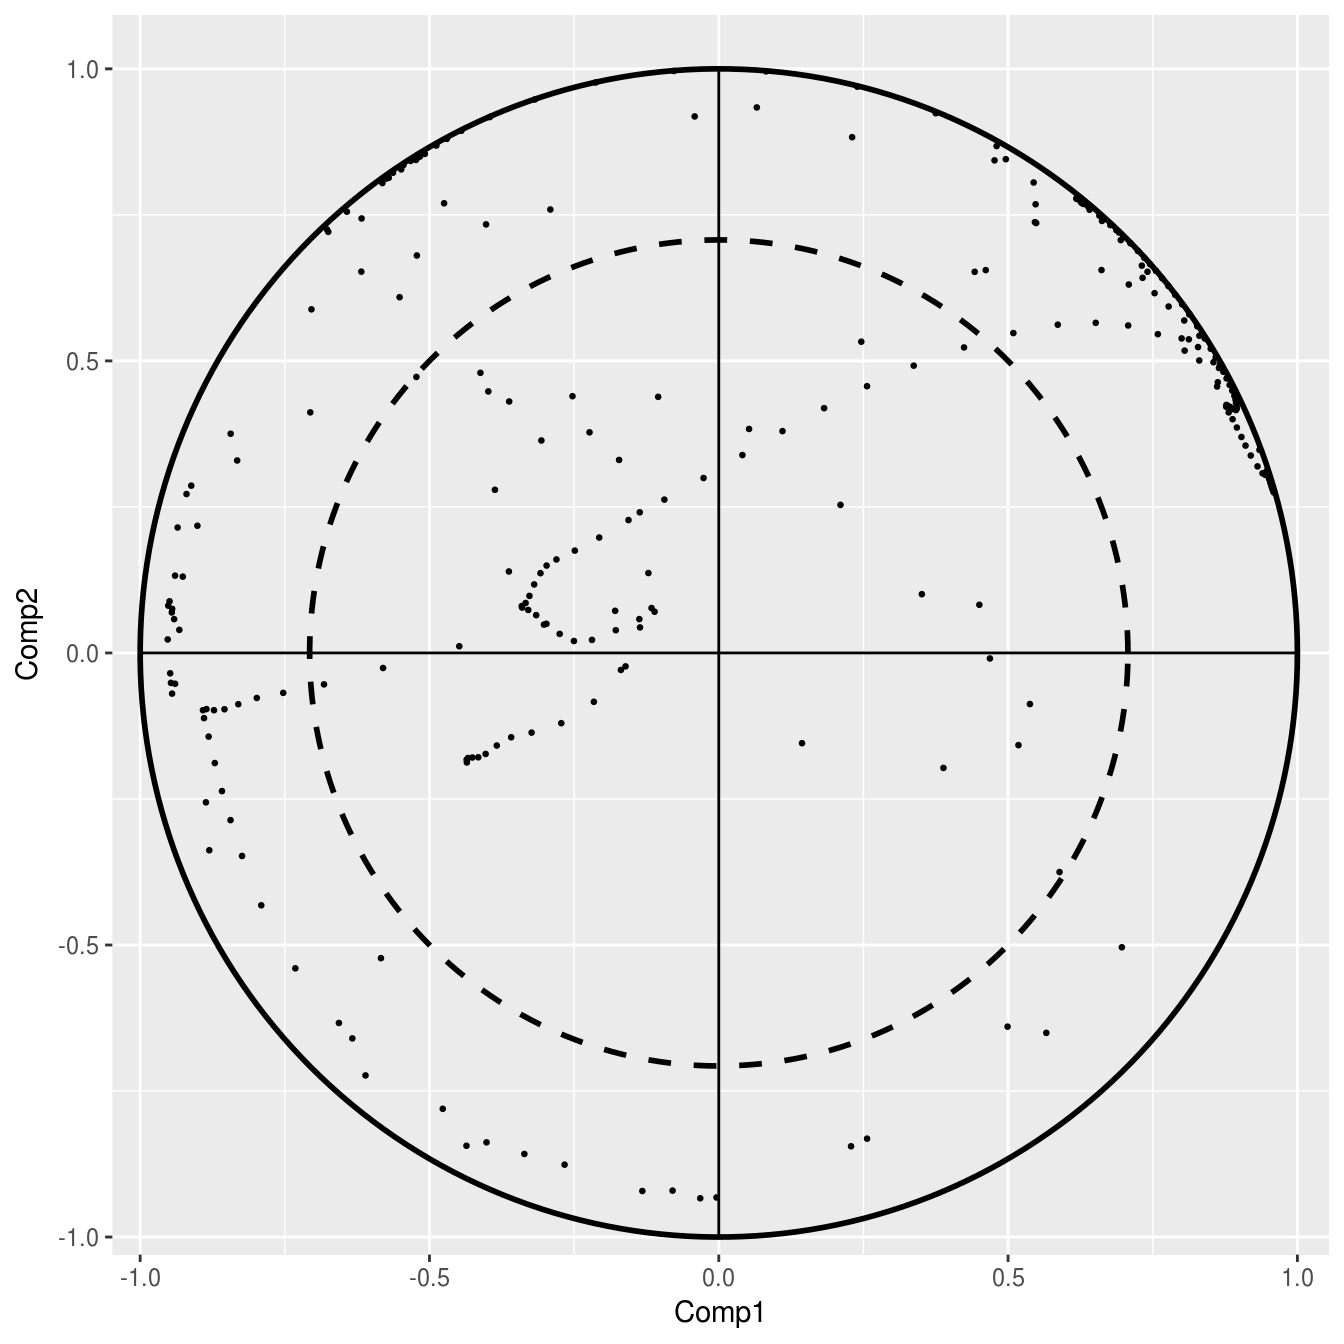
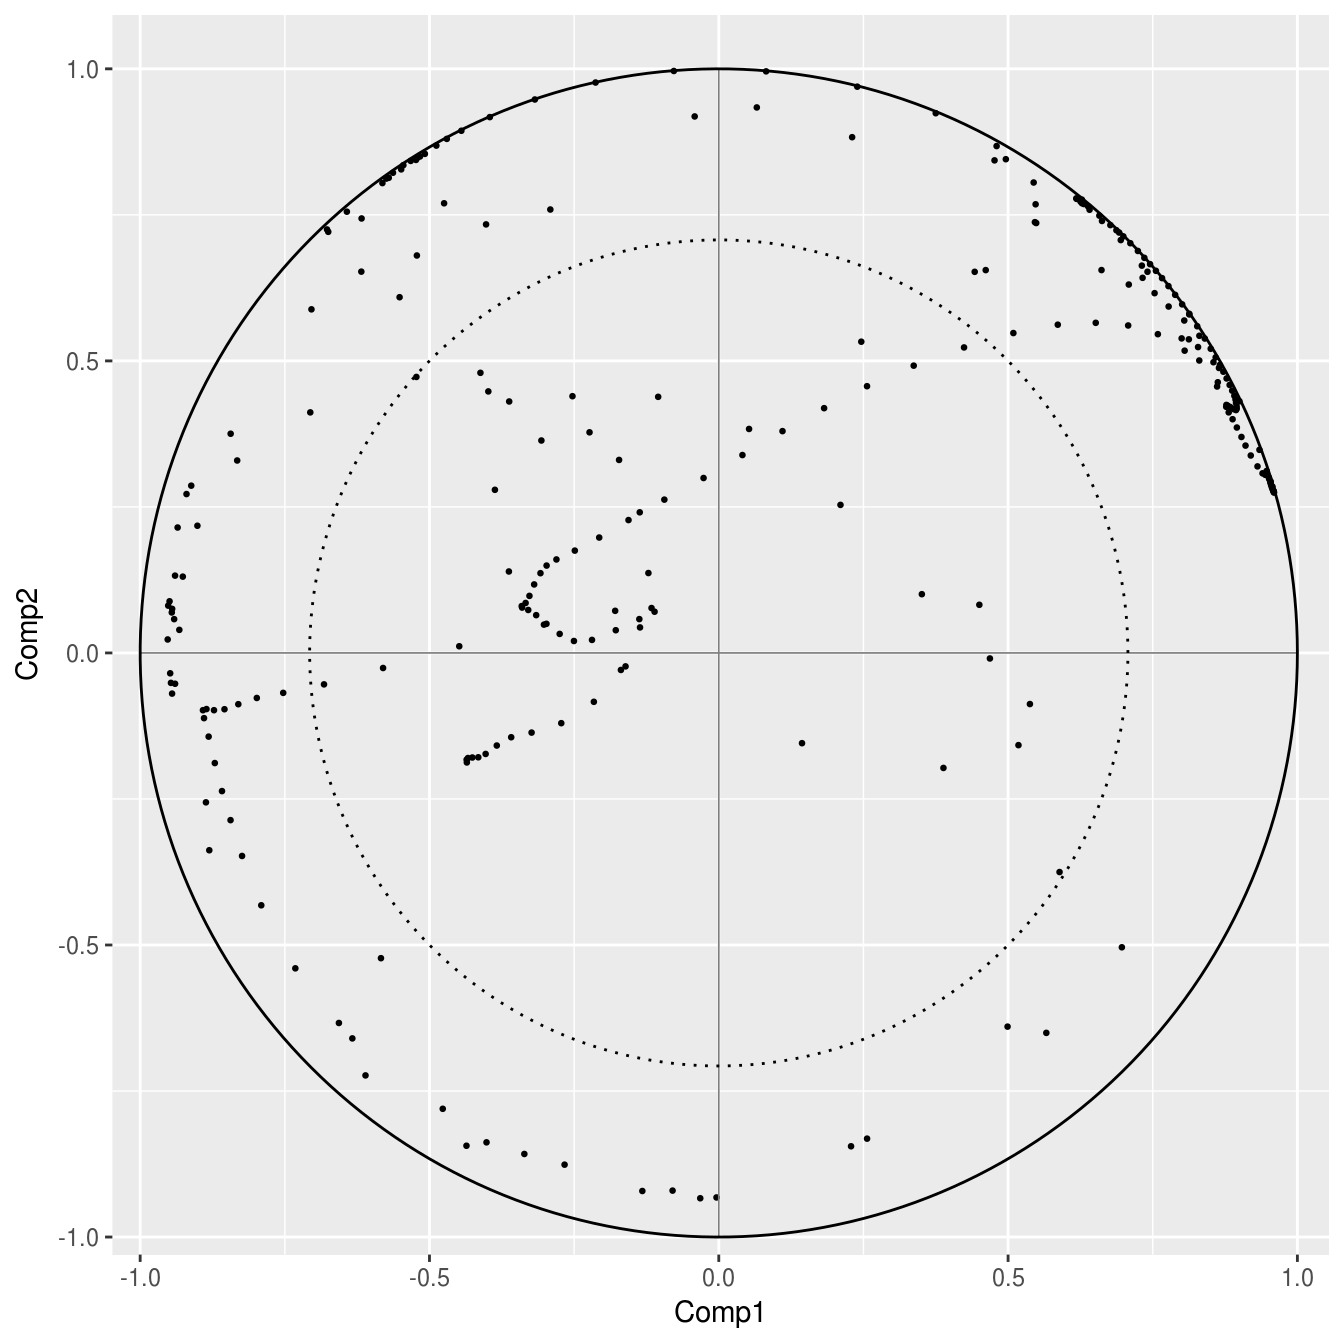
updated roxygen and pkgdown site

diff --git a/docs/reference/geom_corr_circle.html b/docs/reference/geom_corr_circle.html
@@ -113,10 +113,10 @@ analysis and partial least squares.</p>
     <pre class="usage"><span class='fu'>geom_corr_circle</span>(<span class='kw'>mapping</span> <span class='kw'>=</span> <span class='kw'>NULL</span>, <span class='kw'>data</span> <span class='kw'>=</span> <span class='kw'>NULL</span>, <span class='kw'>stat</span> <span class='kw'>=</span> <span class='st'>"identity"</span>,
   <span class='kw'>position</span> <span class='kw'>=</span> <span class='st'>"identity"</span>, <span class='no'>...</span>, <span class='kw'>na.rm</span> <span class='kw'>=</span> <span class='fl'>FALSE</span>, <span class='kw'>show.legend</span> <span class='kw'>=</span> <span class='fl'>NA</span>,
   <span class='kw'>outer.linetype</span> <span class='kw'>=</span> <span class='st'>"solid"</span>, <span class='kw'>outer.linecolour</span> <span class='kw'>=</span> <span class='st'>"black"</span>,
-  <span class='kw'>outer.linesize</span> <span class='kw'>=</span> <span class='fl'>1</span>, <span class='kw'>inner.linetype</span> <span class='kw'>=</span> <span class='st'>"dashed"</span>,
-  <span class='kw'>inner.linecolour</span> <span class='kw'>=</span> <span class='st'>"black"</span>, <span class='kw'>inner.linesize</span> <span class='kw'>=</span> <span class='fl'>1</span>,
-  <span class='kw'>center.linetype</span> <span class='kw'>=</span> <span class='st'>"solid"</span>, <span class='kw'>center.linecolour</span> <span class='kw'>=</span> <span class='st'>"black"</span>,
-  <span class='kw'>center.linesize</span> <span class='kw'>=</span> <span class='fl'>0.5</span>, <span class='kw'>inherit.aes</span> <span class='kw'>=</span> <span class='fl'>TRUE</span>)</pre>
+  <span class='kw'>outer.linesize</span> <span class='kw'>=</span> <span class='fl'>0.5</span>, <span class='kw'>inner.linetype</span> <span class='kw'>=</span> <span class='st'>"dotted"</span>,
+  <span class='kw'>inner.linecolour</span> <span class='kw'>=</span> <span class='st'>"black"</span>, <span class='kw'>inner.linesize</span> <span class='kw'>=</span> <span class='fl'>0.5</span>,
+  <span class='kw'>center.linetype</span> <span class='kw'>=</span> <span class='st'>"solid"</span>, <span class='kw'>center.linecolour</span> <span class='kw'>=</span> <span class='st'>"grey50"</span>,
+  <span class='kw'>center.linesize</span> <span class='kw'>=</span> <span class='fl'>0.3</span>, <span class='kw'>inherit.aes</span> <span class='kw'>=</span> <span class='fl'>TRUE</span>)</pre>
     
     <h2 class="hasAnchor" id="arguments"><a class="anchor" href="#arguments"></a>Arguments</h2>
     <table class="ref-arguments">
@@ -216,11 +216,18 @@ the default plot specification, e.g. <code>borders()</code>.</p></td>
 <span class='no'>fit</span>$<span class='no'>Variables</span> <span class='kw'>&lt;-</span> <span class='fu'>rownames</span>(<span class='no'>fit</span>)
 <span class='fu'>rownames</span>(<span class='no'>fit</span>) <span class='kw'>&lt;-</span> <span class='kw'>NULL</span>
 <span class='fu'>colnames</span>(<span class='no'>fit</span>)[<span class='fl'>1</span>:<span class='fl'>2</span>] <span class='kw'>&lt;-</span> <span class='fu'>c</span>(<span class='st'>"Comp1"</span>, <span class='st'>"Comp2"</span>)
+<span class='no'>fit</span>$<span class='no'>Groups</span> <span class='kw'>&lt;-</span> <span class='fu'>as.factor</span>(<span class='fu'>sample.int</span>(<span class='fl'>2</span>, <span class='fu'>nrow</span>(<span class='no'>fit</span>), <span class='kw'>replace</span> <span class='kw'>=</span> <span class='fl'>TRUE</span>))
 
 <span class='no'>p</span> <span class='kw'>&lt;-</span> <span class='fu'><a href='http://www.rdocumentation.org/packages/ggplot2/topics/ggplot'>ggplot</a></span>(<span class='no'>fit</span>, <span class='fu'><a href='http://www.rdocumentation.org/packages/ggplot2/topics/aes'>aes</a></span>(<span class='kw'>x</span> <span class='kw'>=</span> <span class='no'>Comp1</span>, <span class='kw'>y</span> <span class='kw'>=</span> <span class='no'>Comp2</span>))
 <span class='no'>p</span> + <span class='fu'>geom_corr_circle</span>()</div><div class='img'><img src='geom_corr_circle-1.png' alt='' width='700' height='433' /></div><div class='input'><span class='no'>p</span> + <span class='fu'>geom_corr_circle</span>(<span class='kw'>outer.linetype</span> <span class='kw'>=</span> <span class='st'>"dotted"</span>)</div><div class='img'><img src='geom_corr_circle-2.png' alt='' width='700' height='433' /></div><div class='input'><span class='no'>p</span> + <span class='fu'>geom_corr_circle</span>(<span class='kw'>inner.linecolour</span> <span class='kw'>=</span> <span class='st'>"blue"</span>)</div><div class='img'><img src='geom_corr_circle-3.png' alt='' width='700' height='433' /></div><div class='input'><span class='no'>p</span> + <span class='fu'>geom_corr_circle</span>(<span class='kw'>center.linesize</span> <span class='kw'>=</span> <span class='fl'>1</span>)</div><div class='img'><img src='geom_corr_circle-4.png' alt='' width='700' height='433' /></div><div class='input'><span class='no'>p</span> + <span class='fu'>geom_corr_circle</span>(<span class='kw'>center.linecolour</span> <span class='kw'>=</span> <span class='st'>"grey50"</span>, <span class='kw'>size</span> <span class='kw'>=</span> <span class='fl'>3</span>)</div><div class='img'><img src='geom_corr_circle-5.png' alt='' width='700' height='433' /></div><div class='input'>
 <span class='co'># If you want to remove the circle or center lines, use 0.</span>
 <span class='no'>p</span> + <span class='fu'>geom_corr_circle</span>(<span class='kw'>center.linetype</span> <span class='kw'>=</span> <span class='fl'>0</span>)</div><div class='img'><img src='geom_corr_circle-6.png' alt='' width='700' height='433' /></div><div class='input'><span class='no'>p</span> + <span class='fu'>geom_corr_circle</span>(<span class='kw'>outer.linetype</span> <span class='kw'>=</span> <span class='fl'>0</span>)</div><div class='img'><img src='geom_corr_circle-7.png' alt='' width='700' height='433' /></div><div class='input'>
+<span class='co'># With grouping</span>
+<span class='no'>p</span> + <span class='fu'>geom_corr_circle</span>(<span class='fu'><a href='http://www.rdocumentation.org/packages/ggplot2/topics/aes'>aes</a></span>(<span class='kw'>colour</span> <span class='kw'>=</span> <span class='no'>Groups</span>))</div><div class='img'><img src='geom_corr_circle-8.png' alt='' width='700' height='433' /></div><div class='input'><span class='no'>p</span> + <span class='fu'>geom_corr_circle</span>(<span class='fu'><a href='http://www.rdocumentation.org/packages/ggplot2/topics/aes'>aes</a></span>(<span class='kw'>colour</span> <span class='kw'>=</span> <span class='no'>Groups</span>), <span class='kw'>size</span> <span class='kw'>=</span> <span class='fl'>3</span>) +
+<span class='fu'><a href='http://www.rdocumentation.org/packages/ggplot2/topics/scale_brewer'>scale_colour_brewer</a></span>()</div><div class='img'><img src='geom_corr_circle-9.png' alt='' width='700' height='433' /></div><div class='input'><span class='no'>p</span> + <span class='fu'>geom_corr_circle</span>(<span class='fu'><a href='http://www.rdocumentation.org/packages/ggplot2/topics/aes'>aes</a></span>(<span class='kw'>alpha</span> <span class='kw'>=</span> <span class='no'>Groups</span>))</div><div class='output co'>#&gt; <span class='warning'>Warning: Using alpha for a discrete variable is not advised.</span></div><div class='img'><img src='geom_corr_circle-10.png' alt='' width='700' height='433' /></div><div class='input'><span class='no'>p</span> + <span class='fu'>geom_corr_circle</span>(<span class='fu'><a href='http://www.rdocumentation.org/packages/ggplot2/topics/aes'>aes</a></span>(<span class='kw'>size</span> <span class='kw'>=</span> <span class='no'>Groups</span>))</div><div class='output co'>#&gt; <span class='warning'>Warning: Using size for a discrete variable is not advised.</span></div><div class='img'><img src='geom_corr_circle-11.png' alt='' width='700' height='433' /></div><div class='input'><span class='no'>p</span> + <span class='fu'>geom_corr_circle</span>(<span class='fu'><a href='http://www.rdocumentation.org/packages/ggplot2/topics/aes'>aes</a></span>(<span class='kw'>shape</span> <span class='kw'>=</span> <span class='no'>Groups</span>), <span class='kw'>size</span> <span class='kw'>=</span> <span class='fl'>2</span>)</div><div class='img'><img src='geom_corr_circle-12.png' alt='' width='700' height='433' /></div><div class='input'>
+<span class='co'># With facets</span>
+<span class='no'>p</span> + <span class='fu'>geom_corr_circle</span>() +
+<span class='fu'><a href='http://www.rdocumentation.org/packages/ggplot2/topics/facet_grid'>facet_grid</a></span>(~ <span class='no'>Groups</span>)</div><div class='img'><img src='geom_corr_circle-13.png' alt='' width='700' height='433' /></div><div class='input'>
 </div></pre>
   </div>
   <div class="col-md-3 hidden-xs hidden-sm" id="sidebar">

diff --git a/docs/articles/ggepi.html b/docs/articles/ggepi.html
@@ -73,7 +73,7 @@
       <h1>Introduction to ggepi</h1>
                         <h4 class="author">Luke W. Johnston</h4>
             
-            <h4 class="date">2018-03-23</h4>
+            <h4 class="date">2018-03-27</h4>
       
       <small>Source: <a href="https://github.com/lwjohnst86/ggepi/blob/master/vignettes/ggepi.Rmd"><code>vignettes/ggepi.Rmd</code></a></small>
 
@@ -244,7 +244,7 @@
 </tr>
 </tbody>
 </table>
-<p>And we can plot it using:</p>
+<p>And we can plot it using <code><a href="../reference/geom_corr_circle.html">geom_corr_circle()</a></code>:</p>
 <div class="sourceCode" id="cb6"><pre class="sourceCode r"><code class="sourceCode r"><a class="sourceLine" id="cb6-1" data-line-number="1">p &lt;-<span class="st"> </span><span class="kw">ggplot</span>(fit, <span class="kw">aes</span>(<span class="dt">x =</span> Comp1, <span class="dt">y =</span> Comp2))</a>
 <a class="sourceLine" id="cb6-2" data-line-number="2">p <span class="op">+</span><span class="st"> </span><span class="kw"><a href="../reference/geom_corr_circle.html">geom_corr_circle</a></span>()</a></code></pre></div>
 <p><img src="ggepi_files/figure-html/corr_circle-1.png" width="672" style="display: block; margin: auto;"></p>
